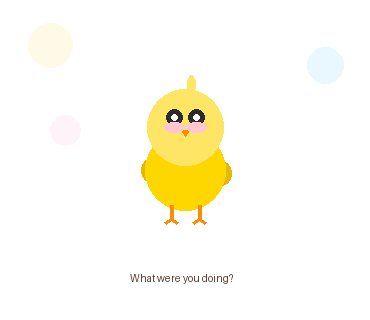
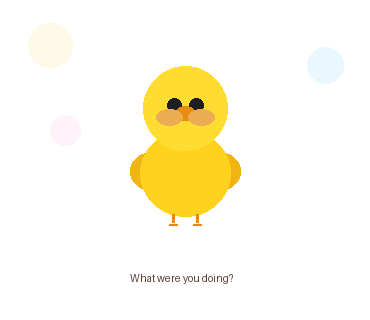
Refine chick design to match reference

Changed region(s): [[0.327, 0.1875, 0.6541, 0.7188]]

diff --git a/generate_stickers.py b/generate_stickers.py
@@ -1,7 +1,9 @@
-"""サンリオ風・ぷっくりまるまる系ひよこLINEスタンプ生成スクリプト。"""
+"""見本画像に寄せたフラットなひよこLINEスタンプ生成スクリプト。"""
 
 import math
+import os
 import re
+import subprocess
 from pathlib import Path
 from typing import Tuple
 
@@ -38,24 +40,24 @@ STICKER_SCENES = [
     [(185, 155, "smile",     "right")],              # 01 おはよう ☀
     [(185, 155, "sleepy",    "right")],              # 02 おやすみ 🌙
     [(185, 155, "surprised", "right")],              # 03 何してた？
-    [(130, 155, "heart",     "right"),               # 04 愛してる 💕（向き合い）
-     (240, 155, "heart",     "left")],
+    [(115, 160, "heart",     "right"),               # 04 愛してる 💕（向き合い）
+     (255, 160, "heart",     "left")],
     [(185, 155, "smile",     "right")],              # 05 休憩だよ ☕
     [(185, 155, "sleepy",    "right")],              # 06 素敵な夢をみてね 🌟
-    [(130, 155, "smile",     "right"),               # 07 夢で逢えますように 💫（寄り添い）
-     (240, 155, "smile",     "left")],
+    [(115, 160, "smile",     "right"),               # 07 夢で逢えますように 💫（寄り添い）
+     (255, 160, "smile",     "left")],
     [(185, 155, "sparkle",   "right")],              # 08 素敵な一日を 🌈
     [(185, 155, "blush",     "right")],              # 09 無理しないで 🍀
-    [(130, 155, "smile",     "right"),               # 10 会えてうれしかったよ 😊（寄り添い）
-     (240, 155, "smile",     "left")],
-    [(130, 155, "heart",     "right"),               # 11 幸せだよ 💛（ハートあり）
-     (240, 155, "heart",     "left")],
+    [(115, 160, "smile",     "right"),               # 10 会えてうれしかったよ 😊（寄り添い）
+     (255, 160, "smile",     "left")],
+    [(115, 160, "heart",     "right"),               # 11 幸せだよ 💛（ハートあり）
+     (255, 160, "heart",     "left")],
     [(185, 155, "wink",      "right")],              # 12 待っててね ⏳
     [(185, 155, "surprised", "right")],              # 13 終わったよ 🎉
     [(185, 155, "normal",    "right")],              # 14 いま出発 🚀
     [(185, 155, "blush",     "right")],              # 15 お疲れさまでした 🌸
-    [(140, 155, "heart",     "right"),               # 16 ぎゅーして 🤗（くっついている）
-     (230, 155, "heart",     "left")],
+    [(125, 160, "heart",     "right"),               # 16 ぎゅーして 🤗（くっついている）
+     (245, 160, "heart",     "left")],
 ]
 
 # 2羽の間にハートを浮かべるシーンの番号（0-indexed）
@@ -81,23 +83,46 @@ DEFAULT_FONT_TEXT_FALLBACKS = {
 }
 
 _font_warning_shown = False
+FONT_CANDIDATES = [
+    "/usr/share/fonts/opentype/noto/NotoSansCJK-Regular.ttc",
+    "/usr/share/fonts/opentype/noto/NotoSansCJKjp-Regular.otf",
+    "/usr/share/fonts/truetype/fonts-japanese-gothic.ttf",
+    "/usr/share/fonts/truetype/noto/NotoSansCJK-Regular.ttc",
+    "/usr/share/fonts/opentype/noto/NotoSansCJK-Bold.ttc",
+    "/usr/share/fonts/truetype/noto/NotoSansJP-Regular.ttf",
+    "/usr/share/fonts/truetype/ipafont-gothic/ipag.ttf",
+    "/System/Library/Fonts/ヒラギノ角ゴシック W3.ttc",
+    "C:/Windows/Fonts/msgothic.ttc",
+    "NotoSansJP-Regular.otf",
+    "NotoSansJP-Regular.ttf",
+]
+
+
+def ensure_japanese_font() -> None:
+    """Google Colab環境で日本語フォントを自動インストールする。"""
+    if any(os.path.exists(font_path) for font_path in FONT_CANDIDATES):
+        return
+
+    try:
+        result = subprocess.run(
+            ["apt-get", "install", "-y", "-q", "fonts-noto-cjk"],
+            capture_output=True,
+            text=True,
+            timeout=60,
+            check=False,
+        )
+        if result.returncode == 0 and any(os.path.exists(font_path) for font_path in FONT_CANDIDATES):
+            print("日本語フォントをインストールしました。")
+    except Exception:
+        pass
+
+
+ensure_japanese_font()
 
 
 def load_font(size: int, warn_if_default: bool = True) -> tuple[ImageFont.ImageFont, bool]:
     """日本語フォントを優先し、見つからない場合はPillowデフォルトへフォールバックする。"""
-    candidates = [
-        "/usr/share/fonts/opentype/noto/NotoSansCJK-Regular.ttc",
-        "/usr/share/fonts/truetype/noto/NotoSansCJK-Regular.ttc",
-        "/usr/share/fonts/opentype/noto/NotoSansCJK-Bold.ttc",
-        "/usr/share/fonts/truetype/noto/NotoSansJP-Regular.ttf",
-        "/usr/share/fonts/truetype/ipafont-gothic/ipag.ttf",
-        "/usr/share/fonts/truetype/fonts-japanese-gothic.ttf",
-        "/System/Library/Fonts/ヒラギノ角ゴシック W3.ttc",
-        "C:/Windows/Fonts/msgothic.ttc",
-        "NotoSansJP-Regular.otf",
-        "NotoSansJP-Regular.ttf",
-    ]
-    for font_path in candidates:
+    for font_path in FONT_CANDIDATES:
         try:
             return ImageFont.truetype(font_path, size=size), False
         except (OSError, IOError):
@@ -155,139 +180,121 @@ def draw_chick(
     facing: str = "right",
     size_scale: float = 1.0,
 ) -> None:
-    """サンリオ風・ぷっくりまるまる系ひよこを描く。
+    """見本画像に寄せた丸いひよこを描く。
 
-    頭：体 = 1：1 のコンパクトな丸々デザイン。
-    頭と体が重なり合い、首が見えないプロポーションにする。
+    頭と体をほぼ同じ大きさにし、首が見えないくらい重ねる。
     x, y はひよこ全体の中心座標。
     """
     # === カラーパレット ===
-    head_color = (255, 229, 102, 255)   # #FFE566 頭（明るいパステルイエロー）
-    body_color = (255, 215,   0, 255)   # #FFD700 体
-    wing_color = (230, 185,   0, 255)   # 翼（体より少し濃い黄色）
-    beak_color = (255, 140,   0, 255)   # #FF8C00 くちばし・足
-    blush_color = (255, 183, 197, 200)  # #FFB7C5 ほっぺた（通常）
-    blush_deep  = (255, 130, 155, 220)  # ほっぺた（照れ顔は濃いめ）
-    eye_color   = ( 44,  44,  44, 255)  # #2C2C2C 目
+    head_color = (255, 220, 50, 255)    # 明るい黄色の頭
+    body_color = (255, 210, 30, 255)    # 少しだけ濃い黄色の体
+    wing_color = (240, 180, 20, 255)    # 羽はさらに濃い黄色
+    beak_color = (230, 140, 20, 255)    # くちばし・足はオレンジ
+    cheek_color = (230, 150, 30, 200)   # ほっぺたはオレンジ系
+    cheek_deep = (230, 150, 30, 230)    # 照れ顔だけ少し濃くする
+    eye_color = (30, 30, 30, 255)       # シンプルな黒目
     heart_color = (255, 107, 157, 255)  # #FF6B9D ハート目
-    white       = (255, 255, 255, 255)  # ハイライト
 
     # === パーツの基準座標 ===
-    body_cx, body_cy = x, y + int(round(15 * size_scale))   # 体の中心
-    body_r = 40 if size_scale >= 1.0 else 33                # 体の半径
-    head_cx, head_cy = x, y - int(round(28 * size_scale))   # 頭の中心（体と重なるよう配置）
-    head_r = 38 if size_scale >= 1.0 else 31                # 頭の半径
+    body_cx, body_cy = x, y + int(round(18 * size_scale))
+    body_rx = max(28, int(round(45 * size_scale)))
+    body_ry = max(27, int(round(43 * size_scale)))
+    head_cx = x
+    head_r = max(26, int(round(42 * size_scale)))
+    overlap = max(12, int(round(20 * size_scale)))
+    head_cy = body_cy - body_ry - head_r + overlap
 
-    # === 描画順: 羽 → 体 → 頭 → 足 → アホ毛 → 顔パーツ ===
+    # === 描画順: 羽 → 体 → 頭 → 足 → 顔パーツ ===
 
-    # --- 羽（体の両サイドに小さめ楕円・体の約1/3サイズ） ---
-    wing_rx = max(8, int(round(10 * size_scale)))   # 羽の半径（横）
-    wing_ry = max(10, int(round(12 * size_scale)))  # 羽の半径（縦）
-    wing_front_dx = int(round(6 * size_scale))
-    wing_back_dx = int(round(4 * size_scale))
-    wing_back_dy = int(round(3 * size_scale))
-    if facing == "right":
-        # 右向き: 左羽を少し前方に出し、右羽を少し後方に
-        draw.ellipse((body_cx - body_r - wing_rx + wing_front_dx, body_cy - wing_ry,
-                      body_cx - body_r + wing_rx + wing_front_dx, body_cy + wing_ry), fill=wing_color)
-        draw.ellipse((body_cx + body_r - wing_rx - wing_back_dx, body_cy - wing_ry + wing_back_dy,
-                      body_cx + body_r + wing_rx - wing_back_dx, body_cy + wing_ry + wing_back_dy), fill=wing_color)
-    else:
-        # 左向き: 左右反転
-        draw.ellipse((body_cx - body_r - wing_rx + wing_back_dx, body_cy - wing_ry + wing_back_dy,
-                      body_cx - body_r + wing_rx + wing_back_dx, body_cy + wing_ry + wing_back_dy), fill=wing_color)
-        draw.ellipse((body_cx + body_r - wing_rx - wing_front_dx, body_cy - wing_ry,
-                      body_cx + body_r + wing_rx - wing_front_dx, body_cy + wing_ry), fill=wing_color)
+    # --- 羽（体の左右にくっついた小さめの丸） ---
+    wing_r = max(14, int(round(18 * size_scale)))
+    wing_inset = max(5, int(round(8 * size_scale)))
+    wing_y = body_cy - max(0, int(round(2 * size_scale)))
+    draw.ellipse((body_cx - body_rx - wing_r + wing_inset, wing_y - wing_r,
+                  body_cx - body_rx + wing_r + wing_inset, wing_y + wing_r), fill=wing_color)
+    draw.ellipse((body_cx + body_rx - wing_r - wing_inset, wing_y - wing_r,
+                  body_cx + body_rx + wing_r - wing_inset, wing_y + wing_r), fill=wing_color)
 
-    # --- 体（黄色い丸・羽の上に重ねて翼が両サイドから覗く） ---
-    draw.ellipse((body_cx - body_r, body_cy - body_r,
-                  body_cx + body_r, body_cy + body_r), fill=body_color)
+    # --- 体（頭と同じくらいの大きさで、少しだけ縦長） ---
+    draw.ellipse((body_cx - body_rx, body_cy - body_ry,
+                  body_cx + body_rx, body_cy + body_ry), fill=body_color)
 
-    # --- 頭（明るめ黄色い丸・体と重なることで首を隠す） ---
+    # --- 頭（大きな真円） ---
     draw.ellipse((head_cx - head_r, head_cy - head_r,
                   head_cx + head_r, head_cy + head_r), fill=head_color)
 
-    # --- 足（短くてかわいいオレンジ色・指付き） ---
-    foot_top = body_cy + body_r - 5                    # 体の底部付近から
-    foot_len = max(11, int(round(14 * size_scale)))    # 足の長さ（短め）
-    foot_offset = max(12, int(round(14 * size_scale)))
-    toe_dx = max(5, int(round(6 * size_scale)))
-    toe_dy = max(4, int(round(4 * size_scale)))
+    # --- 足（極めて短く、体の下から少しだけ見せる） ---
+    foot_top = body_cy + body_ry - 2
+    foot_len = max(6, int(round(8 * size_scale)))
+    foot_offset = max(9, int(round(12 * size_scale)))
+    toe_dx = max(3, int(round(4 * size_scale)))
+    toe_y = max(1, int(round(2 * size_scale)))
+    foot_width = max(2, int(round(3 * size_scale)))
     for fx in (x - foot_offset, x + foot_offset):
-        draw.line((fx, foot_top, fx, foot_top + foot_len), fill=beak_color, width=4)
-        draw.line((fx, foot_top + foot_len, fx - toe_dx, foot_top + foot_len + toe_dy),
-                  fill=beak_color, width=3)
-        draw.line((fx, foot_top + foot_len, fx + toe_dx, foot_top + foot_len + toe_dy),
-                  fill=beak_color, width=3)
-
-    # --- アホ毛（頭頂部のぴょんと立った小さな突起） ---
-    ahoge_base = head_cy - head_r   # 頭の一番上
-    ahoge_dx = max(2, int(round(2 * size_scale)))
-    ahoge_w = max(7, int(round(8 * size_scale)))
-    ahoge_h = max(14, int(round(14 * size_scale)))
-    draw.ellipse((x + ahoge_dx, ahoge_base - ahoge_h, x + ahoge_dx + ahoge_w, ahoge_base + 4), fill=head_color)
+        draw.line((fx, foot_top, fx, foot_top + foot_len), fill=beak_color, width=foot_width)
+        draw.line((fx - toe_dx, foot_top + foot_len + toe_y, fx + toe_dx, foot_top + foot_len + toe_y),
+                  fill=beak_color, width=max(1, foot_width - 1))
 
     # === 顔パーツの座標 ===
-    eye_y = head_cy - max(8, int(round(10 * size_scale)))  # 目のY座標（頭中心より少し上）
-    left_ex = head_cx - max(9, int(round(11 * size_scale)))   # 左目のX座標
-    right_ex = head_cx + max(9, int(round(11 * size_scale)))  # 右目のX座標
+    beak_cx = head_cx
+    beak_cy = head_cy + max(3, int(round(5 * size_scale)))
+    eye_y = beak_cy - max(6, int(round(8 * size_scale)))
+    eye_dx = max(8, int(round(11 * size_scale)))
+    left_ex = beak_cx - eye_dx
+    right_ex = beak_cx + eye_dx
+    eye_r = max(4, int(round(5 * size_scale)))
 
     # === 目（表情によって変える） ===
     if expression == "smile":
-        # にっこり: 下向き弧（目を細めた笑顔）
-        draw.arc((left_ex  - 7, eye_y - 3, left_ex  + 7, eye_y + 7), 10, 170, fill=eye_color, width=3)
-        draw.arc((right_ex - 7, eye_y - 3, right_ex + 7, eye_y + 7), 10, 170, fill=eye_color, width=3)
+        # にっこり目もシンプルな線でまとめる
+        draw.arc((left_ex - 6, eye_y - 1, left_ex + 6, eye_y + 7), 15, 165, fill=eye_color, width=2)
+        draw.arc((right_ex - 6, eye_y - 1, right_ex + 6, eye_y + 7), 15, 165, fill=eye_color, width=2)
     elif expression == "sleepy":
-        # 眠そうな目: 半目（下弧 + 上まぶた線）
-        draw.arc((left_ex  - 7, eye_y - 5, left_ex  + 7, eye_y + 5), 185, 355, fill=eye_color, width=3)
-        draw.line((left_ex  - 7, eye_y, left_ex  + 7, eye_y), fill=eye_color, width=2)
-        draw.arc((right_ex - 7, eye_y - 5, right_ex + 7, eye_y + 5), 185, 355, fill=eye_color, width=3)
-        draw.line((right_ex - 7, eye_y, right_ex + 7, eye_y), fill=eye_color, width=2)
+        # 眠そうな目は短い横線だけにする
+        draw.line((left_ex - 5, eye_y, left_ex + 5, eye_y), fill=eye_color, width=2)
+        draw.line((right_ex - 5, eye_y, right_ex + 5, eye_y), fill=eye_color, width=2)
     elif expression == "surprised":
-        # びっくり目: 大きな丸目（ハイライト付き）
-        draw.ellipse((left_ex  - 8, eye_y - 8, left_ex  + 8, eye_y + 8), fill=eye_color)
-        draw.ellipse((left_ex  - 3, eye_y - 3, left_ex  + 3, eye_y + 3), fill=white)
-        draw.ellipse((right_ex - 8, eye_y - 8, right_ex + 8, eye_y + 8), fill=eye_color)
-        draw.ellipse((right_ex - 3, eye_y - 3, right_ex + 3, eye_y + 3), fill=white)
+        # びっくり目は少し大きめの黒丸
+        big_eye_r = eye_r + max(1, int(round(2 * size_scale)))
+        draw.ellipse((left_ex - big_eye_r, eye_y - big_eye_r, left_ex + big_eye_r, eye_y + big_eye_r), fill=eye_color)
+        draw.ellipse((right_ex - big_eye_r, eye_y - big_eye_r, right_ex + big_eye_r, eye_y + big_eye_r), fill=eye_color)
     elif expression == "heart":
-        # ハート目: 小さなハート形
-        _draw_small_heart(draw, left_ex,  eye_y, 8, heart_color)
-        _draw_small_heart(draw, right_ex, eye_y, 8, heart_color)
+        # ハート目だけは演出として残す
+        _draw_small_heart(draw, left_ex, eye_y, max(6, int(round(8 * size_scale))), heart_color)
+        _draw_small_heart(draw, right_ex, eye_y, max(6, int(round(8 * size_scale))), heart_color)
     elif expression == "wink":
-        # ウィンク: 左目は普通の丸目、右目は横弧（つぶった目）
-        draw.ellipse((left_ex - 5, eye_y - 5, left_ex + 5, eye_y + 5), fill=eye_color)
-        draw.ellipse((left_ex - 2, eye_y - 2, left_ex + 2, eye_y + 2), fill=white)
-        draw.arc((right_ex - 7, eye_y - 2, right_ex + 7, eye_y + 6), 195, 345, fill=eye_color, width=3)
+        # ウィンクは片目だけ点にする
+        draw.ellipse((left_ex - eye_r, eye_y - eye_r, left_ex + eye_r, eye_y + eye_r), fill=eye_color)
+        draw.arc((right_ex - 6, eye_y - 1, right_ex + 6, eye_y + 5), 200, 340, fill=eye_color, width=2)
     elif expression == "sparkle":
-        # キラキラ目: 星型
-        _draw_star(draw, left_ex,  eye_y, 8, eye_color)
-        _draw_star(draw, right_ex, eye_y, 8, eye_color)
+        # 見本優先で、キラキラ目も黒丸ベースに寄せる
+        draw.ellipse((left_ex - eye_r, eye_y - eye_r, left_ex + eye_r, eye_y + eye_r), fill=eye_color)
+        draw.ellipse((right_ex - eye_r, eye_y - eye_r, right_ex + eye_r, eye_y + eye_r), fill=eye_color)
     elif expression == "blush":
-        # 照れ顔: にっこり目（細め）
-        draw.arc((left_ex  - 6, eye_y - 2, left_ex  + 6, eye_y + 6), 10, 170, fill=eye_color, width=3)
-        draw.arc((right_ex - 6, eye_y - 2, right_ex + 6, eye_y + 6), 10, 170, fill=eye_color, width=3)
+        # 照れ顔は普通の黒目で、ほっぺを強めにする
+        draw.ellipse((left_ex - eye_r, eye_y - eye_r, left_ex + eye_r, eye_y + eye_r), fill=eye_color)
+        draw.ellipse((right_ex - eye_r, eye_y - eye_r, right_ex + eye_r, eye_y + eye_r), fill=eye_color)
     else:
-        # normal: 普通の丸い目（ハイライト付き）
-        draw.ellipse((left_ex  - 5, eye_y - 5, left_ex  + 5, eye_y + 5), fill=eye_color)
-        draw.ellipse((left_ex  - 2, eye_y - 2, left_ex  + 2, eye_y + 2), fill=white)
-        draw.ellipse((right_ex - 5, eye_y - 5, right_ex + 5, eye_y + 5), fill=eye_color)
-        draw.ellipse((right_ex - 2, eye_y - 2, right_ex + 2, eye_y + 2), fill=white)
+        # 基本は見本どおりの小さな黒丸
+        draw.ellipse((left_ex - eye_r, eye_y - eye_r, left_ex + eye_r, eye_y + eye_r), fill=eye_color)
+        draw.ellipse((right_ex - eye_r, eye_y - eye_r, right_ex + eye_r, eye_y + eye_r), fill=eye_color)
 
-    # --- くちばし（小さいオレンジの三角形） ---
-    beak_y = head_cy + max(4, int(round(5 * size_scale)))
-    draw.polygon([
-        (x - 4, beak_y - 2),
-        (x + 4, beak_y - 2),
-        (x,     beak_y + 4),
-    ], fill=beak_color)
+    # --- くちばし（横長のオレンジ楕円） ---
+    beak_rx = max(7, int(round(10 * size_scale)))
+    beak_ry = max(5, int(round(7 * size_scale)))
+    draw.ellipse((beak_cx - beak_rx, beak_cy - beak_ry,
+                  beak_cx + beak_rx, beak_cy + beak_ry), fill=beak_color)
 
-    # --- ほっぺた（目の下にピンクの楕円） ---
-    cheek_col = blush_deep if expression == "blush" else blush_color
-    cheek_y = eye_y + max(8, int(round(10 * size_scale)))
-    cheek_rx = max(8, int(round(10 * size_scale)))
-    cheek_ry = max(4, int(round(5 * size_scale)))
-    draw.ellipse((left_ex  - cheek_rx, cheek_y - cheek_ry, left_ex  + cheek_rx, cheek_y + cheek_ry), fill=cheek_col)
-    draw.ellipse((right_ex - cheek_rx, cheek_y - cheek_ry, right_ex + cheek_rx, cheek_y + cheek_ry), fill=cheek_col)
+    # --- ほっぺた（目の下外側にオレンジ色で置く） ---
+    cheek_fill = cheek_deep if expression == "blush" else cheek_color
+    cheek_y = eye_y + max(9, int(round(12 * size_scale)))
+    cheek_rx = max(9, int(round(13 * size_scale)))
+    cheek_ry = max(6, int(round(8 * size_scale)))
+    cheek_gap = max(4, int(round(5 * size_scale)))
+    draw.ellipse((left_ex - cheek_rx - cheek_gap, cheek_y - cheek_ry,
+                  left_ex + cheek_rx - cheek_gap, cheek_y + cheek_ry), fill=cheek_fill)
+    draw.ellipse((right_ex - cheek_rx + cheek_gap, cheek_y - cheek_ry,
+                  right_ex + cheek_rx + cheek_gap, cheek_y + cheek_ry), fill=cheek_fill)
 
 
 def draw_text_with_outline(draw: ImageDraw.ImageDraw, text: str) -> None:
@@ -341,7 +348,7 @@ def create_sticker(index: int, text: str, scene: list[Tuple[int, int, str, str]]
         draw.ellipse((ax - r, ay - r, ax + r, ay + r), fill=color)
 
     # ひよこを描く
-    size_scale = 0.8 if len(scene) == 2 else 1.0
+    size_scale = 0.75 if len(scene) == 2 else 1.0
     for x, y, expression, facing in scene:
         draw_chick(draw, x, y, expression, facing, size_scale=size_scale)
 
